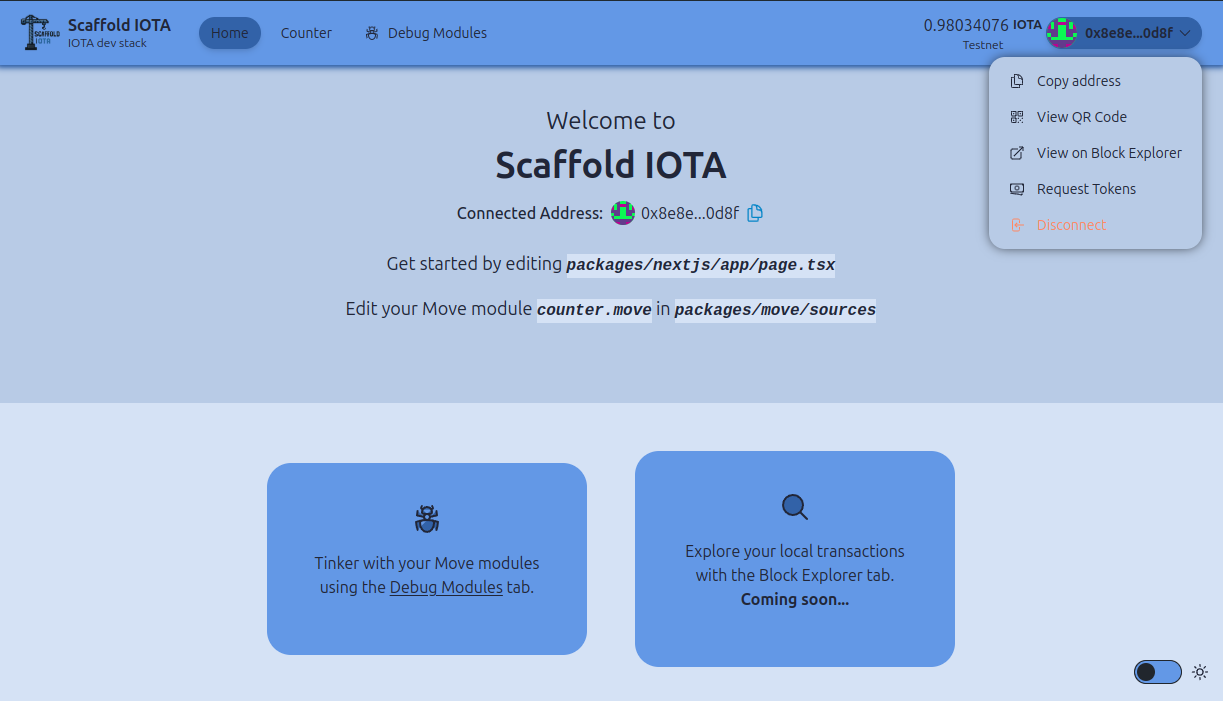
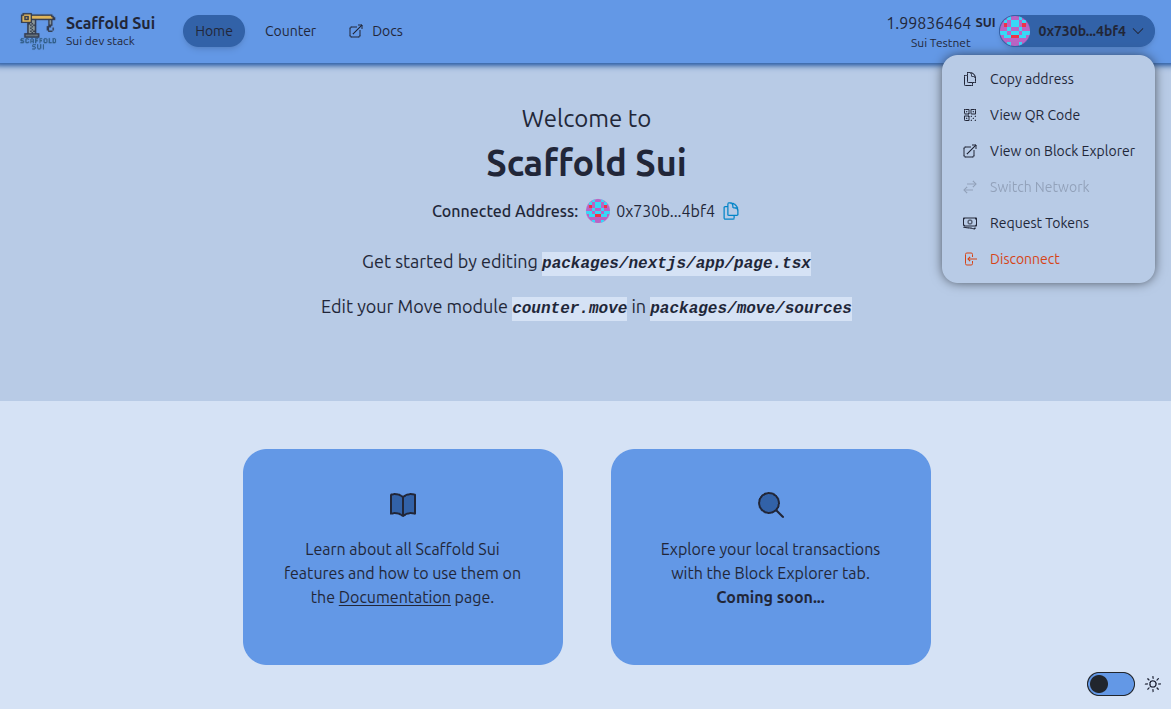
refactoring

diff --git a/docusaurus.config.ts b/docusaurus.config.ts
@@ -5,12 +5,12 @@ import fs from "node:fs";
 import path from "node:path";
 
 const config: Config = {
-  title: '🏗 Scaffold IOTA Docs',
-  tagline: 'Open-source toolkit for building on IOTA',
+  title: '🏗 Scaffold Sui Docs',
+  tagline: 'Open-source toolkit for building on Sui',
   // favicon: 'img/favicon.ico',
 
   // Set the production url of your site here
-  url: 'https://scaffold-iota-docs.vercel.app/',
+  url: 'https://scaffold-sui-docs.vercel.app/',
   // Set the /<baseUrl>/ pathname under which your site is served
   // For GitHub pages deployment, it is often '/<projectName>/'
   baseUrl: '/',
@@ -58,23 +58,23 @@ const config: Config = {
           const { allMdx } = content as { allMdx: string[] };
 
           // Create a structured overview
-          const overview = `# Scaffold IOTA
+          const overview = `# Scaffold Sui
 
-Everything you need to build dApps on IOTA. A modern, clean toolkit for creating and deploying Move smart contract and building user interfaces that interact seamlessly with these contracts.
+Everything you need to build dApps on Sui. A modern, clean toolkit for creating and deploying Move smart contract and building user interfaces that interact seamlessly with these contracts.
 
 ## High level overview
 
 ### Smart Contract Read and Write Operations Patterns
 
-- Read: useView (packages/nextjs/hooks/scaffold-iota/useView.ts)
-- Write: useSubmitTransaction (packages/nextjs/hooks/scaffold-iota/useSubmitTransaction.ts)
-- Objects: useGetObject (packages/nextjs/hooks/scaffold-iota/useGetObject.ts)
+- Read: useView (packages/nextjs/hooks/scaffold-sui/useView.ts)
+- Write: useSubmitTransaction (packages/nextjs/hooks/scaffold-sui/useSubmitTransaction.ts)
+- Objects: useGetObject (packages/nextjs/hooks/scaffold-sui/useGetObject.ts)
 
 You have all the details of our custom hooks in the \`## Hooks\` section from this file.
 
 ### Best Practice Guidance for Components usage
 
-Use Scaffold IOTA components whenever it makes sense, they are located in \`packages/nextjs/components/scaffold-iota\`. You have all the details about components in the \`## Components\` section from this file.
+Use Scaffold Sui components whenever it makes sense, they are located in \`packages/nextjs/components/scaffold-sui\`. You have all the details about components in the \`## Components\` section from this file.
 
 ### UI/Design System
 
@@ -87,9 +87,9 @@ Styling Framework:
 
 * 🛫 **Deployment Scripts**: Simplify and automate your deployment workflow.
 * ✅ **Hot Contract Reload**: Your frontend automatically adapts to changes in your smart contracts as you redeploy them.
-* 🪝 **Custom Hooks**: A collection of React hooks to simplify interactions with the IOTA blockchain
+* 🪝 **Custom Hooks**: A collection of React hooks to simplify interactions with the Sui blockchain
 * 🧱 **Components**: A library of common Web3 components to rapidly build your frontend.
-* 🔐 **Wallet Integration**: Connect to any IOTA-compatible wallet and interact with the IOTA network directly from your frontend.
+* 🔐 **Wallet Integration**: Connect to any Sui-compatible wallet and interact with the Sui network directly from your frontend.
 
 ## Components
 
@@ -201,16 +201,16 @@ ${allMdx.filter(content => content.includes('contributing/')).join('\n\n')}`;
   themeConfig: {
     image: 'img/logo-small.png',
     navbar: {
-      title: '🏗 Scaffold IOTA Docs',
+      title: '🏗 Scaffold Sui Docs',
       items: [
         {
-          href: 'https://github.com/arjanjohan/scaffold-iota-docs',
+          href: 'https://github.com/arjanjohan/scaffold-sui-docs',
           label: 'GitHub Docs',
           position: 'right',
         },
         {
-          href: 'https://github.com/arjanjohan/scaffold-iota',
-          label: 'GitHub Scaffold IOTA',
+          href: 'https://github.com/arjanjohan/scaffold-sui',
+          label: 'GitHub Scaffold Sui',
           position: 'right',
         },
       ],
@@ -235,12 +235,12 @@ ${allMdx.filter(content => content.includes('contributing/')).join('\n\n')}`;
           title: 'Github',
           items: [
             {
-              label: 'Scaffold IOTA',
-              href: 'https://github.com/arjanjohan/scaffold-iota',
+              label: 'Scaffold Sui',
+              href: 'https://github.com/arjanjohan/scaffold-sui',
             },
             {
               label: 'Docs',
-              href: 'https://github.com/arjanjohan/scaffold-iota-docs',
+              href: 'https://github.com/arjanjohan/scaffold-sui-docs',
             }
           ],
         },

diff --git a/docs/quickstart/quickstart.md b/docs/quickstart/quickstart.md
@@ -11,27 +11,27 @@ Before you begin, you need to install the following tools:
 - [Node (>= v18.17)](https://nodejs.org/en/download/)
 - Yarn ([v1](https://classic.yarnpkg.com/en/docs/install/) or [v2+](https://yarnpkg.com/getting-started/install))
 - [Git](https://git-scm.com/downloads)
-- [IOTA CLI](https://docs.iota.org/developer/getting-started/install-iota)
+- [Sui CLI](https://docs.sui.org/developer/getting-started/install-sui)
 
 ### Quickstart
 
-To get started with Scaffold IOTA, follow the steps below:
+To get started with Scaffold Sui, follow the steps below:
 
 1. Clone this repo & install dependencies
 
 ```
-git clone https://github.com/arjanjohan/scaffold-iota.git
-cd scaffold-iota
+git clone https://github.com/arjanjohan/scaffold-sui.git
+cd scaffold-sui
 yarn install
 ```
 
-2. Then, initialize the IOTA client with this command.
+2. Then, initialize the Sui client with this command.
 
 ```
 yarn client
 ```
 
-This command sets up the IOTA client if it hasnt already. It prompts you to select a network (defaults to IOTA testnet if you just press `Enter`). Finally, you will be prompted to select the key scheme you want to use. If you are unsure which scheme to use just go with the default ed25519 scheme (option 0).
+This command sets up the Sui client if it hasnt already. It prompts you to select a network (defaults to Sui testnet if you just press `Enter`). Finally, you will be prompted to select the key scheme you want to use. If you are unsure which scheme to use just go with the default ed25519 scheme (option 0).
 
 To view the configuration use this command:
 ```
@@ -49,7 +49,7 @@ yarn switch-client <envAlias>
 yarn deploy
 ```
 
-This command deploys the move modules to the network configured in the previous step. The modules are located in `packages/move/sources` and can be modified or replaced to suit your needs. The `yarn deploy` command uses `iota client publish` to publish the modules to the network. After this is executes the script located in `scripts/load-modules.ts` to make the new modules available in the nextjs frontend.
+This command deploys the move modules to the network configured in the previous step. The modules are located in `packages/move/sources` and can be modified or replaced to suit your needs. The `yarn deploy` command uses `sui client publish` to publish the modules to the network. After this is executes the script located in `scripts/load-modules.ts` to make the new modules available in the nextjs frontend.
 
 4. On a second terminal, start your NextJS app:
 

diff --git a/docs/contributing/contributing.md b/docs/contributing/contributing.md
@@ -1,19 +1,19 @@
 ---
 sidebar_position: 8
 ---
-# 🙏 Contributing to Scaffold IOTA
+# 🙏 Contributing to Scaffold Sui
 
-Scaffold IOTA has successfully implemented core features essential for IOTA developers, providing a robust foundation for building decentralized applications. The current version offers a streamlined development experience with hot contract reloading, custom hooks, and seamless wallet integration.
+Scaffold Sui has successfully implemented core features essential for Sui developers, providing a robust foundation for building decentralized applications. The current version offers a streamlined development experience with hot contract reloading, custom hooks, and seamless wallet integration.
 
 ### New features planned:
 
-- Add a testing framework for IOTA smart contracts.
+- Add a testing framework for Sui smart contracts.
 - Enhance documentation and tutorials for easier onboarding.
 - Develop more pre-built hooks and components for common dApp functionalities.
-- Integrate different templates/configurations in Scaffold IOTA.
+- Integrate different templates/configurations in Scaffold Sui.
 
 ### Contributing
-We're committed to evolving Scaffold IOTA based on community feedback and emerging best practices in the IOTA ecosystem. For a detailed list of upcoming features and to contribute ideas, please check our [GitHub Issues](https://github.com/arjanjohan/scaffold-iota/issues).
+We're committed to evolving Scaffold Sui based on community feedback and emerging best practices in the Sui ecosystem. For a detailed list of upcoming features and to contribute ideas, please check our [GitHub Issues](https://github.com/arjanjohan/scaffold-sui/issues).
 
 ### Community
-Your input is valuable! If you have suggestions or want to contribute, we encourage you to get involved and help shape the future of Scaffold IOTA.
+Your input is valuable! If you have suggestions or want to contribute, we encourage you to get involved and help shape the future of Scaffold Sui.

diff --git a/docs/intro/commands.md b/docs/intro/commands.md
@@ -4,18 +4,18 @@ slug: /commands
 ---
 # ⌨ Available Commands
 
-This page provides an overview of all available yarn commands in the Scaffold-IOTA project. The commands are organized by their functionality.
+This page provides an overview of all available yarn commands in the Scaffold-Sui project. The commands are organized by their functionality.
 
 ## Smart Contract Development Commands
 
 ### `yarn client`
-Launches an interactive client interface for managing IOTA environments. This tool allows you to:
+Launches an interactive client interface for managing Sui environments. This tool allows you to:
 - Switch between different environments (testnet, devnet)
 - Set up new environments with custom configurations
 - View and manage existing environments
 
 ### `yarn chain`
-Starts a local IOTA node with the following configurations:
+Starts a local Sui node with the following configurations:
 - Forces regenesis of the chain
 - Includes a faucet for testing
 - Sets logging level to show only important node information
@@ -28,7 +28,7 @@ Executes a two-step deployment process:
 - Updates frontend module definitions automatically
 
 ### `yarn compile`
-Compiles your Move smart contracts using the IOTA Move compiler.
+Compiles your Move smart contracts using the Sui Move compiler.
 
 ### `yarn test`
 Runs the test suite for your Move smart contracts.
@@ -77,7 +77,7 @@ Runs lint-staged checks before committing code changes.
 
 ## Notes
 
-- Most commands are workspace-specific and will run in either the `@scaffold-iota/move` or `@scaffold-iota/nextjs` workspace
+- Most commands are workspace-specific and will run in either the `@scaffold-sui/move` or `@scaffold-sui/nextjs` workspace
 - The format command runs formatting for both Move contracts and Next.js code
 - For local development, start with `yarn chain` to run a local node, then use `yarn start` for the frontend
 - Before deploying contracts, ensure they are compiled (`yarn compile`) and tested (`yarn test`)

diff --git a/docs/intro/intro.md b/docs/intro/intro.md
@@ -3,18 +3,18 @@ sidebar_position: 1
 slug: /
 ---
 
-# 👋 Welcome to Scaffold IOTA
+# 👋 Welcome to Scaffold Sui
 
-🧪 Scaffold IOTA is an open-source, cutting-edge toolkit for building decentralized applications (dApps) on IOTA. It's designed to streamline the process of creating and deploying Move smart contracts and building user interfaces that interact seamlessly with these smart contracts.
+🧪 Scaffold Sui is an open-source, cutting-edge toolkit for building decentralized applications (dApps) on Sui. It's designed to streamline the process of creating and deploying Move smart contracts and building user interfaces that interact seamlessly with these smart contracts.
 
-⚙ Built using Move, IOTA TS SDK, Next.js, Tailwind CSS, and TypeScript.
+⚙ Built using Move, Sui TS SDK, Next.js, Tailwind CSS, and TypeScript.
 
 * 🛫 **Deployment Scripts**: Simplify and automate your deployment workflow.
 * ✅ **Hot Contract Reload**: Your frontend automatically adapts to changes in your smart contracts as you redeploy them.
-* 🪝 **Custom Hooks**: A collection of React hooks to simplify interactions with the IOTA blockchain
+* 🪝 **Custom Hooks**: A collection of React hooks to simplify interactions with the Sui blockchain
 * 🧱 **Components**: A library of common Web3 components to rapidly build your frontend.
-* 🔐 **Wallet Integration**: Connect to any IOTA-compatible wallet and interact with the IOTA network directly from your frontend.
+* 🔐 **Wallet Integration**: Connect to any Sui-compatible wallet and interact with the Sui network directly from your frontend.
 
-Perfect for hackathons, prototyping, or launching your next IOTA project!
+Perfect for hackathons, prototyping, or launching your next Sui project!
 
 ![Landing page](/img/landing-page.png)

diff --git a/docs/intro/links.md b/docs/intro/links.md
@@ -4,18 +4,18 @@ slug: /links
 
 # 🔗 Links
 
-Below are some relevant links for developing with Scaffold IOTA or IOTA in general.
+Below are some relevant links for developing with Scaffold Sui or Sui in general.
 
-### Scaffold IOTA Resources
+### Scaffold Sui Resources
 
-* [Scaffold IOTA GitHub Repository](https://github.com/arjanjohan/scaffold-iota)
-* [Scaffold IOTA Documentation GitHub Repository](https://github.com/arjanjohan/scaffold-iota-docs)
-* [Scaffold IOTA Demo Application](https://scaffold-iota.vercel.app/)
-* [Scaffold IOTA Documentation Website](https://scaffold-iota-docs.vercel.app/)
+* [Scaffold Sui GitHub Repository](https://github.com/arjanjohan/scaffold-sui)
+* [Scaffold Sui Documentation GitHub Repository](https://github.com/arjanjohan/scaffold-sui-docs)
+* [Scaffold Sui Demo Application](https://scaffold-sui.vercel.app/)
+* [Scaffold Sui Documentation Website](https://scaffold-sui-docs.vercel.app/)
 
-### IOTA and Move Development Resources
+### Sui and Move Development Resources
 
-* [IOTA Developer Documentation](https://docs.iota.org)
-* [IOTA Developer Cheat sheet](https://docs.iota.org/developer/dev-cheat-sheet)
-* [IOTA Builder Discord](https://discord.gg/iota-builders)
-* [IOTA GitHub](https://www.github.com/iotaledger/)
+* [Sui Developer Documentation](https://docs.sui.org)
+* [Sui Developer Cheat sheet](https://docs.sui.org/developer/dev-cheat-sheet)
+* [Sui Builder Discord](https://discord.gg/sui-builders)
+* [Sui GitHub](https://www.github.com/suiledger/)

diff --git a/docs/components/ balance.md b/docs/components/ balance.md
@@ -1,6 +1,6 @@
 # Balance
 
-Displays the balance of a given address in the native token (IOTA).
+Displays the balance of a given address in the native token (Sui).
 
 ## Screenshot
 ![Balance Example](../../static/img/balance.png)
@@ -8,8 +8,8 @@ Displays the balance of a given address in the native token (IOTA).
 ## Usage
 
 ```tsx
-import { Balance } from "~~/components/scaffold-iota";
-import { useCurrentAccount } from "@iota/dapp-kit";
+import { Balance } from "~~/components/scaffold-sui";
+import { useCurrentAccount } from "@sui/dapp-kit";
 
 const account = useCurrentAccount();
 <Balance address={account?.address as string} />
@@ -20,5 +20,5 @@ const account = useCurrentAccount();
 | ------------------------ | -------- | ------------- | ------------------------------------------------------------------------------------------------------------------------- |
 | **address**              | `string` | `undefined`   | Address in `0x___` format. |
 | **decimals**             | `number` | `10`          | Number of decimals for the Coin |
-| **coinType**             | `string` | `0x2::iota::IOTA` | Cointype representing the coin |
+| **coinType**             | `string` | `0x2::sui::Sui` | Cointype representing the coin |
 | **className** (optional) | `string` | `""`          | Prop to pass additional CSS styling to the component, where you can use Tailwind / daisyUI classes for styling. |

diff --git a/docs/hooks/hooks.md b/docs/hooks/hooks.md
@@ -4,13 +4,13 @@ sidebar_position: 3
 
 # 🪝 Hooks
 
-Scaffold IOTA provides a collection of custom React hooks designed to simplify interactions with your deployed smart contracts. These hooks offer an easy-to-use interface for reading from and writing to the IOTA blockchain.
+Scaffold Sui provides a collection of custom React hooks designed to simplify interactions with your deployed smart contracts. These hooks offer an easy-to-use interface for reading from and writing to the Sui blockchain.
 
 ## Core Hooks
 - `useTargetNetwork` - Manage network selection
 - `useModuleAddress` - Get deployed module addresses
 - `useSubmitTransaction` - Submit transactions to the blockchain
-- `useScaffoldSubmitTransaction` - Type-safe transaction submission for modules you deployed using Scaffold IOTA
+- `useScaffoldSubmitTransaction` - Type-safe transaction submission for modules you deployed using Scaffold Sui
 
 ## Coin Management
 - `useFormatCoin` - Format coin amounts for display

diff --git a/docs/hooks/useFormatCoin.md b/docs/hooks/useFormatCoin.md
@@ -6,19 +6,19 @@ Formats a coin balance based on standard coin display logic. If the balance is l
 ```tsx
 const [formattedBalance, coinSymbol, queryResult] = useFormatCoin({
     balance: BigInt(1000000000),
-    coinType: "0x2::iota::IOTA",
+    coinType: "0x2::sui::Sui",
     format: CoinFormat.ROUNDED,
     showSign: false
 });
 ```
 
-This example formats a balance of 1 IOTA with rounded formatting.
+This example formats a balance of 1 Sui with rounded formatting.
 
 ## Parameters
 | Parameter | Type | Description |
 |-----------|------|-------------|
 | **balance**  (optional) | bigint | number | string  | The coin balance to format |
-| **coinType** (optional) | string | The type of the coin (defaults to IOTA) |
+| **coinType** (optional) | string | The type of the coin (defaults to Sui) |
 | **format** (optional) | CoinFormat | Format type (ROUNDED or FULL) |
 | **showSign** (optional) | boolean | Whether to show a + sign for positive values |
 

diff --git a/docs/components/address.md b/docs/components/address.md
@@ -15,7 +15,7 @@ When clicked, the address links to:
 1. The block explorer of the connected wallet's network (if a wallet is connected)
 2. The block explorer of the mainnet (if no wallet is connected)
 
-This component is useful for displaying user addresses, contract addresses, or any IOTA address in a user-friendly manner.
+This component is useful for displaying user addresses, contract addresses, or any Sui address in a user-friendly manner.
 
 ## Screenshot
 ![wallet button example](../../static/img/address.png)
@@ -23,8 +23,8 @@ This component is useful for displaying user addresses, contract addresses, or a
 ## Usage
 
 ```tsx
-import { Address } from "~~/components/scaffold-iota";
-import { useCurrentAccount } from "@iota/dapp-kit";
+import { Address } from "~~/components/scaffold-sui";
+import { useCurrentAccount } from "@sui/dapp-kit";
 
 const account = useCurrentAccount();
 <Address address={connectedAccount?.address} />

diff --git a/README.md b/README.md
@@ -1,12 +1,12 @@
-# [Scaffold IOTA Docs](https://scaffold-iota-docs.vercel.app/)
+# [Scaffold Sui Docs](https://scaffold-sui-docs.vercel.app/)
 
-This website contains Scaffold IOTA Documentation and is built using [Docusaurus 2](https://docusaurus.io/).
+This website contains Scaffold Sui Documentation and is built using [Docusaurus 2](https://docusaurus.io/).
 
 ## Links
 
-- [Deployed Documentation](https://scaffold-iota-docs.vercel.app/)
-- [Depoyed Scaffold IOTA instance](https://scaffold-iota.vercel.app/)
-- [Scaffold IOTA Github](https://github.com/arjanjohan/scaffold-iota)
+- [Deployed Documentation](https://scaffold-sui-docs.vercel.app/)
+- [Depoyed Scaffold Sui instance](https://scaffold-sui.vercel.app/)
+- [Scaffold Sui Github](https://github.com/arjanjohan/scaffold-sui)
 
 ## Team
 

diff --git a/docs/going-live/publish-your-smart-contracts.md b/docs/going-live/publish-your-smart-contracts.md
@@ -4,12 +4,12 @@ sidebar_position: 1
 
 # Publish Your Smart Contracts
 
-When publishing a new Move smart contract, you must first initialize an IOTA account and fund it with the native token. You can use this command:
+When publishing a new Move smart contract, you must first initialize an Sui account and fund it with the native token. You can use this command:
 ```
 yarn account
 ```
 
-This command will create a new IOTA account if you haven't configured one already.
+This command will create a new Sui account if you haven't configured one already.
 
 To publish your smart contracts from your account, use this command:
 
